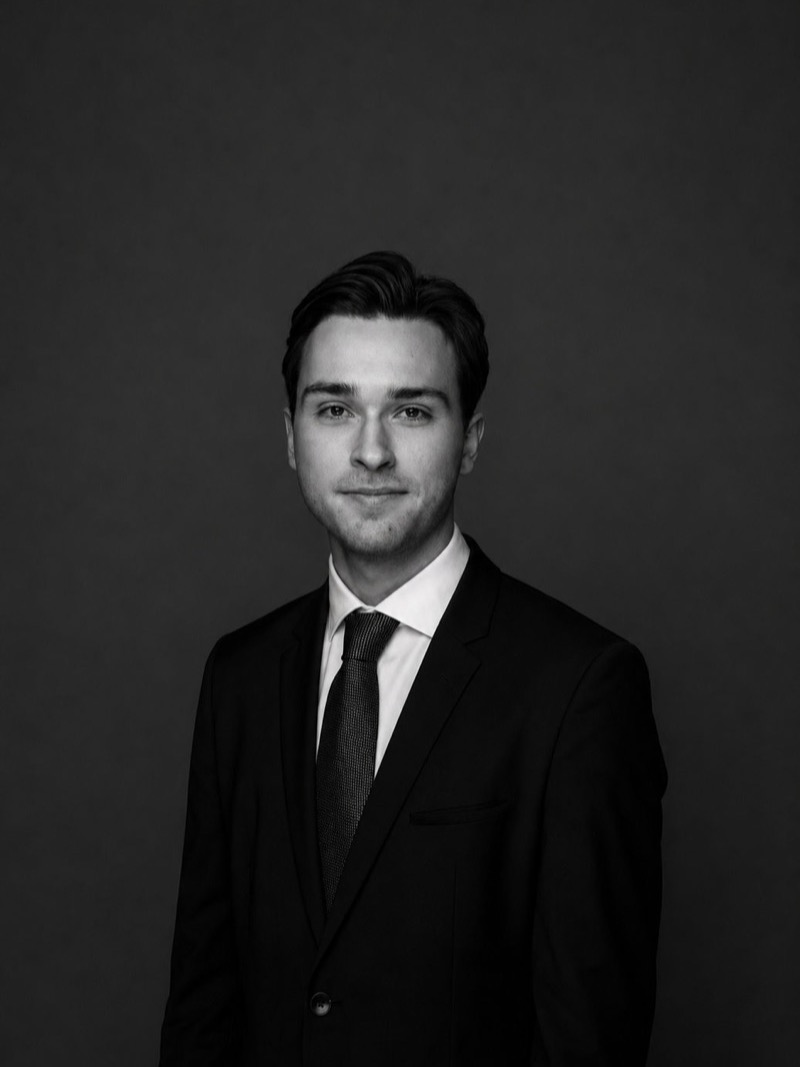
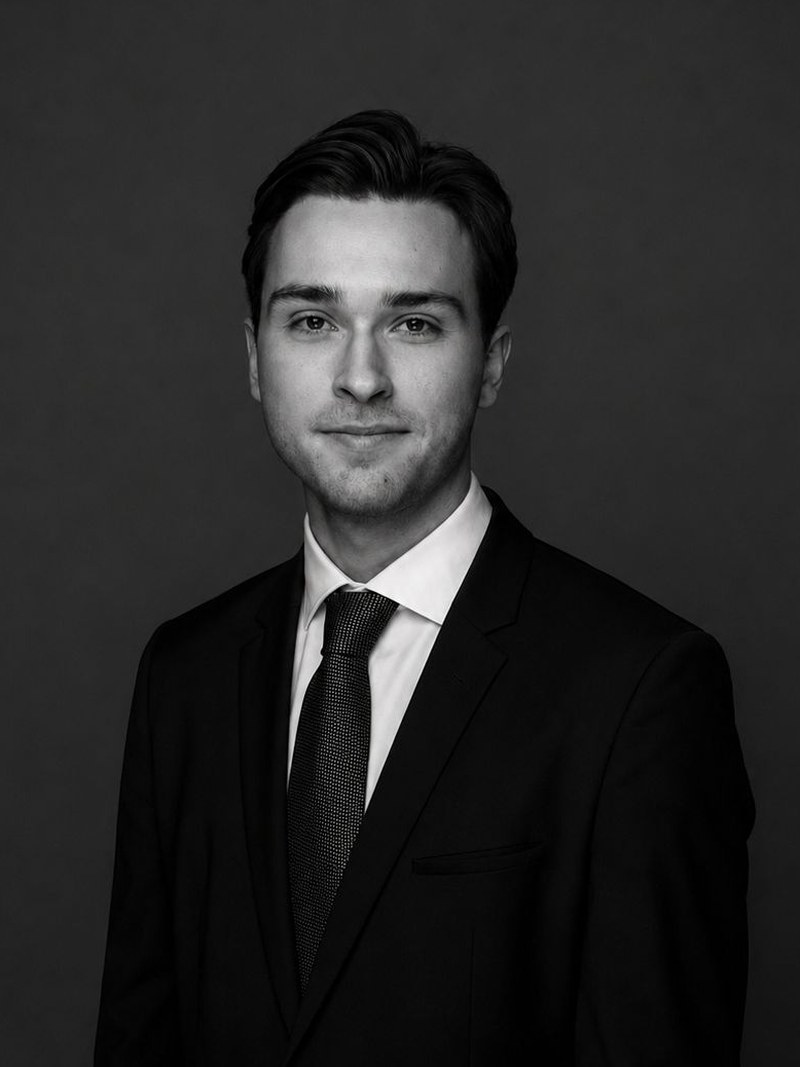
Zoom David Reuther headshot to match peers; rename stat to Publications & Educational Resources
- Re-crop David's photo tighter (head-and-shoulders) from the high-res source
  so it matches the other founders' framing.
- Homepage stat 'Presentations Published' → 'Publications & Educational Resources'.

Changed region(s): [[0.0938, 0.0928, 0.9688, 1.0]]

diff --git a/src/data/stats.js b/src/data/stats.js
@@ -12,5 +12,5 @@
 export const stats = [
   { label: "Students / Member Network", value: 800, suffix: "+" },
   { label: "Operating Team", value: 26, suffix: "" },
-  { label: "Presentations Published", value: 40, suffix: "+" },
+  { label: "Publications & Educational Resources", value: 40, suffix: "+" },
 ];
